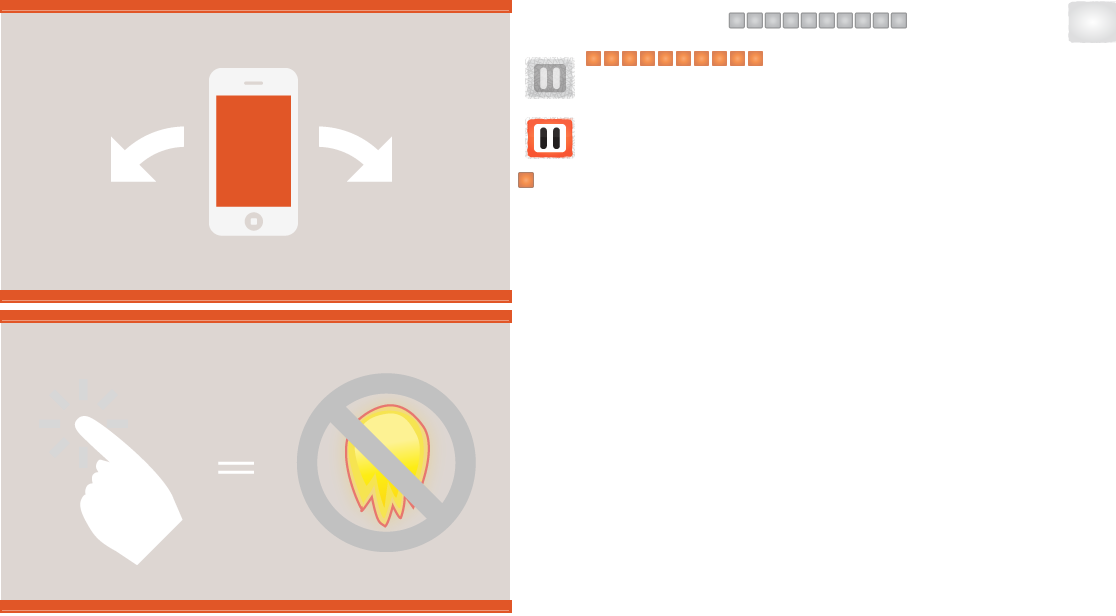
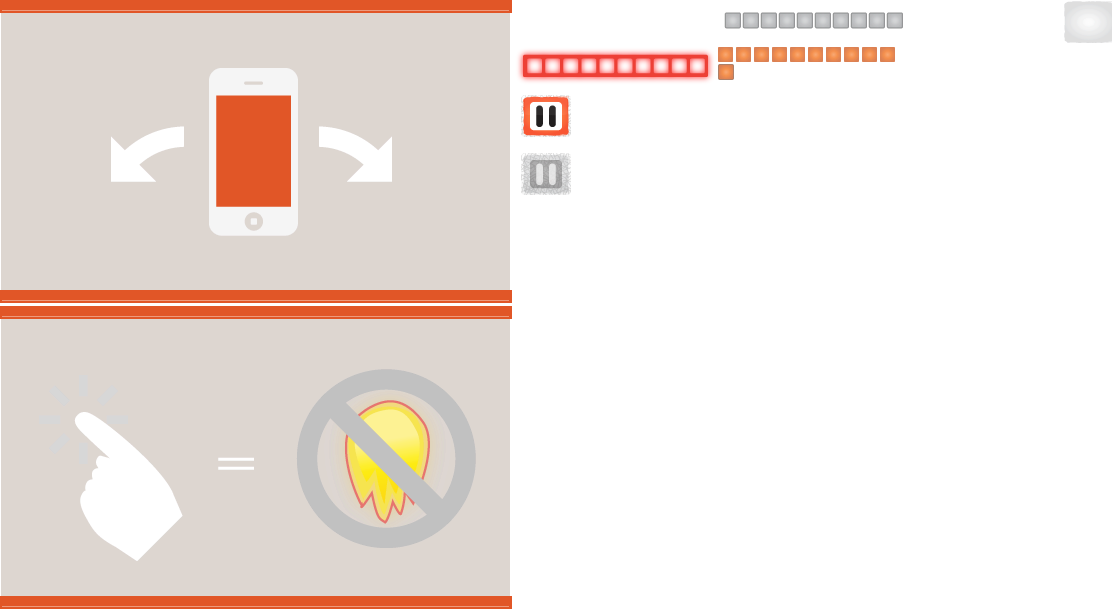
- greedy laugh removed from assets - added red glow on asteroid contact

diff --git a/greedy/SpriteHelperLoader.mm b/greedy/SpriteHelperLoader.mm
@@ -382,16 +382,19 @@
       cpSpaceRemoveShape(space, shape);
       cpShapeFree(shape);
       
-      CCMagicSprite* ccMagicSprite = (CCMagicSprite*)body->data;
-      
-      if([ccMagicSprite usesBatchNode])
+      if(layer != nil)
       {
-        CCSpriteBatchNode* node = [ccMagicSprite batchNode];
-        [node removeChild:ccMagicSprite cleanup:YES];
-      }
-      else
-      {
-        [layer removeChild:ccMagicSprite cleanup:YES];
+        CCMagicSprite* ccMagicSprite = (CCMagicSprite*)body->data;
+        
+        if([ccMagicSprite usesBatchNode])
+        {
+          CCSpriteBatchNode* node = [ccMagicSprite batchNode];
+          [node removeChild:ccMagicSprite cleanup:YES];
+        }
+        else
+        {
+          [layer removeChild:ccMagicSprite cleanup:YES];
+        }
       }
       
       cpSpaceRemoveBody(space, body);
@@ -457,14 +460,14 @@
 //returns NSMutableArray with NSValue with cpShape pointers
 -(NSArray*) cpBodyFromDictionary:(NSDictionary*)spritePhysic
                 spriteProperties:(NSDictionary*)spriteProp
-                            data:(CCMagicSprite*)CCMagicSprite 
+                            data:(CCMagicSprite*)spriteData
                            world:(cpSpace*)space
 {
 	cpBody *body;
 	
   float mass = [[spritePhysic objectForKey:@"Density"] floatValue];
   
-	CGPoint position = ccp([CCMagicSprite position].x, [CCMagicSprite position].y);//
+	CGPoint position = ccp([spriteData position].x, [spriteData position].y);//
 	
   // NSLog(@"Position %f %f", position.x, position.y);
 	//0 static
@@ -528,7 +531,7 @@
       }
       body->p = position;
       cpBodySetAngle(body, DEGREES_TO_RADIANS(-1*[[spriteProp objectForKey:@"Angle"] floatValue]));
-      body->data = CCMagicSprite;
+      body->data = spriteData;
       
       
 			float radius = (size.width*scale.x - shapeBorderX/2)/2;
@@ -565,13 +568,13 @@
       }
       body->p = position;
       cpBodySetAngle(body, DEGREES_TO_RADIANS(-1*[[spriteProp objectForKey:@"Angle"] floatValue]));
-      body->data = CCMagicSprite;
+      body->data = spriteData;
       
       shape = cpPolyShapeNew(body, vsize, verts, CGPointZero);
       delete verts;
 		}
 		[self setShapePropertiesFromDictionary:spritePhysic shape:shape];
-		shape->data = CCMagicSprite;
+		shape->data = spriteData;
     
     [arrayOfShapes addObject:[NSValue valueWithPointer:shape]];
     cpSpaceAddShape(space, shape);
@@ -589,7 +592,7 @@
       cpSpaceAddBody(space, body);
     }
     body->p = position;
-    body->data = CCMagicSprite;
+    body->data = spriteData;
     cpBodySetAngle(body, DEGREES_TO_RADIANS(-1*[[spriteProp objectForKey:@"Angle"] floatValue]));
     
 		for(NSArray* curFixture in fixtures)
@@ -609,7 +612,7 @@
       cpShape* shape = cpPolyShapeNew(body, size, verts, CGPointZero);
       [self setShapePropertiesFromDictionary:spritePhysic shape:shape];
       
-      shape->data = CCMagicSprite;
+      shape->data = spriteData;
       
       [arrayOfShapes addObject:[NSValue valueWithPointer:shape]];
       cpSpaceAddShape(space, shape);

diff --git a/greedy/Explosion.m b/greedy/Explosion.m
@@ -105,6 +105,7 @@ PartData sexyParts[] = {
     [self addRingOfFire: loader position: position inLayer: inLayer];
     
     [self addPartsFromList:inLayer loader:loader position:position parts:normalParts size:sizeof(normalParts)];
+    
     [self addPartsFromList:inLayer loader:loader position:position parts:sexyParts size:sizeof(sexyParts)];
     
     [sharedSpaceManager applyLinearExplosionAt:position radius:15 maxForce:5 layers:LAYER_RADAR group:CP_NO_GROUP];
@@ -134,24 +135,11 @@ PartData sexyParts[] = {
   CCLOG(@"Dealloc explosion");
   
   //remove any added parts
-//  for(NSArray *partShape in allParts)
-//  {
-//    cpBody* body = nil;
-//    
-//    for(NSValue* value in partShape)
-//    {
-//      
-//      cpShape* shape = (cpShape*)[value pointerValue];
-//      if(body == nil)
-//       body = shape->body;
-//      
-//      cpSpaceRemoveShape(sharedSpace, shape);
-//      cpShapeFree(shape);
-//    }
-//    
-//    cpSpaceRemoveBody(sharedSpace, body);
-//    cpBodyFree(body);
-//  }
+  for (NSArray *parts in allParts)
+    [SpriteHelperLoader removeChipmunkBody:parts fromSpace:sharedSpace spriteLayer:nil];
+  
+
+  
   [allParts release];
   
   [self removeAllChildrenWithCleanup:YES];

diff --git a/greedy/src/HudLayer.m b/greedy/src/HudLayer.m
@@ -62,7 +62,6 @@
     //create life meter
     [self createLifeMeter: size];
     
-    
     //create clock
     _countdown = 99;
     [self createCountdownLabel];
@@ -70,6 +69,7 @@
     
     return self;
 }
+
 
 - (void) showHelp:(id)sender
 {
@@ -137,7 +137,7 @@
 - (void) createLifeMeter: (CGSize) size  {
     
     //Create Life Meter art work
-    _lifeMeter = [[LifeMeter alloc] initLifeMeter];
+    _lifeMeter = [[LifeMeter alloc] initLifeMeter: _loader];
     CCLOG(@"LM retainCount:%d", [_lifeMeter retainCount]);
     _lifeMeter.position = ccp(size.width /2, 25);
     [_lifeMeter setLifeLevel:10];
@@ -145,7 +145,7 @@
     [[GameObjectCache sharedGameObjectCache] addLifeMeter:_lifeMeter];
     CCLOG(@"LM retainCount:%d", [_lifeMeter retainCount]);
     
-    [self addChild:_lifeMeter];
+    [self addChild:_lifeMeter z:1];
     
     [_lifeMeter release];
     CCLOG(@"LM retainCount:%d", [_lifeMeter retainCount]);

diff --git a/greedy/LifeMeter.m b/greedy/LifeMeter.m
@@ -11,11 +11,16 @@
 
 @implementation LifeMeter
 
-- (id) initLifeMeter
+- (id) initLifeMeter:(SpriteHelperLoader *) loader
 {
     CCLOG(@"LifeMeter: initLifeMeter");
     
     if(!(self = [super init])) return nil;
+    
+    //Load crashGlow
+    _spriteGlow = [loader spriteWithUniqueName:@"hud_life_hit" atPosition:ccp(0,0) inLayer:nil];
+    [_spriteGlow setOpacity:0.0];
+    [self addChild:_spriteGlow z:-1];
     
     // load the sprite sheet
     _lifeMeterBatchNode = [[[CCSpriteBatchNode alloc] initWithFile:@"oranges.png" capacity:11] autorelease];
@@ -47,6 +52,11 @@
     
     //Return the object
     return self;
+}
+
+- (void) hit
+{
+    [_spriteGlow runAction:[CCSequence actions:[CCFadeTo actionWithDuration:0.2 opacity:255.0], [CCFadeTo actionWithDuration:0.5 opacity:0.0], nil]];
 }
 
 - (void) setLifeLevel:(int) level

diff --git a/greedy/LifeMeter.h b/greedy/LifeMeter.h
@@ -7,14 +7,18 @@
 //
 
 #import "cocos2d.h"
+#import "SpriteHelperLoader.h"
 
 @interface LifeMeter : CCSprite {
-  CCSprite * _lifeBars;
-  
-  CCSpriteBatchNode *_lifeMeterBatchNode;
+    CCSprite * _lifeBars;
+    
+    CCSprite * _spriteGlow;
+    
+    CCSpriteBatchNode *_lifeMeterBatchNode;
 }
 
-- (id) initLifeMeter;
+- (id) initLifeMeter:(SpriteHelperLoader *) loader;
 - (void) setLifeLevel:(int) level;
+- (void) hit;
 
 @end

diff --git a/greedy/Greedy.m b/greedy/Greedy.m
@@ -104,6 +104,8 @@ static void explodeGreedy(cpSpace *space, void *obj, void *data)
         [puff setDuration:2.0];
         [self addChild:puff];
         
+        [sharedLifeMeter hit];
+        
         float bumpStrength = cpArbiterGetDepth(arb, 0) * -1; //0.1;
         bumpStrength = bumpStrength * 0.8;
         bumpStrength = bumpStrength > 0.5 ? 0.5 : bumpStrength;
